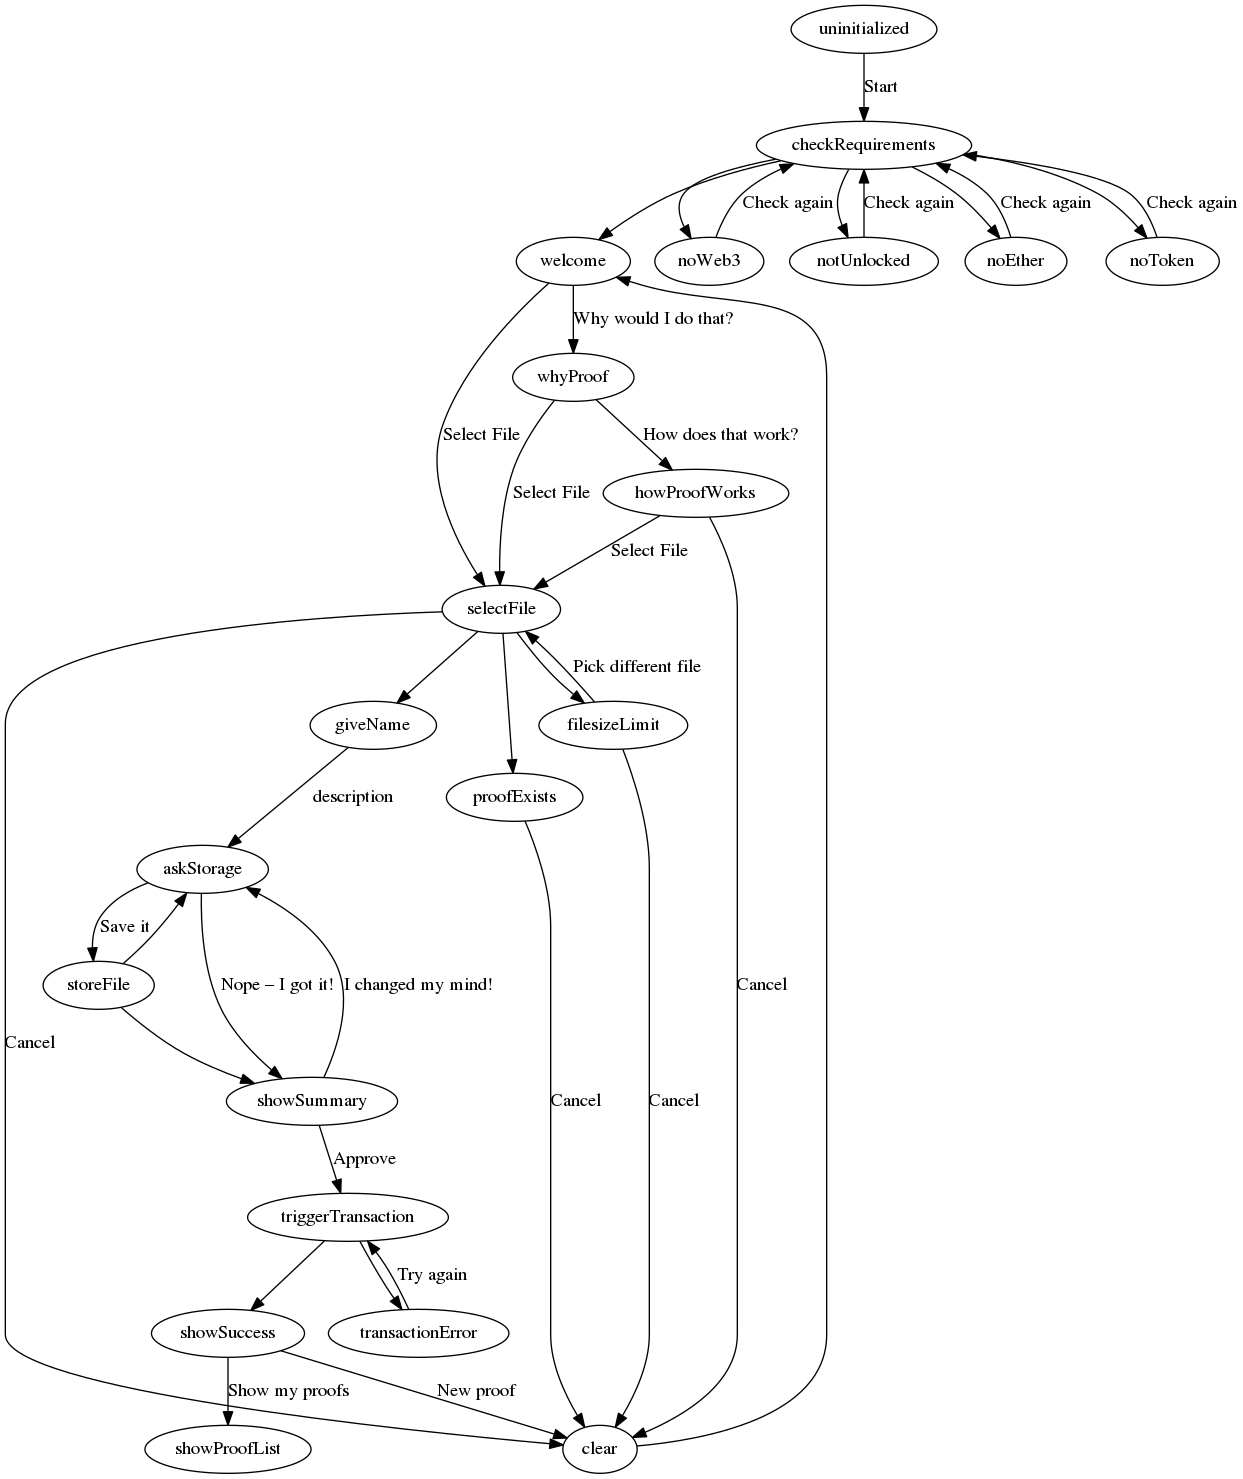
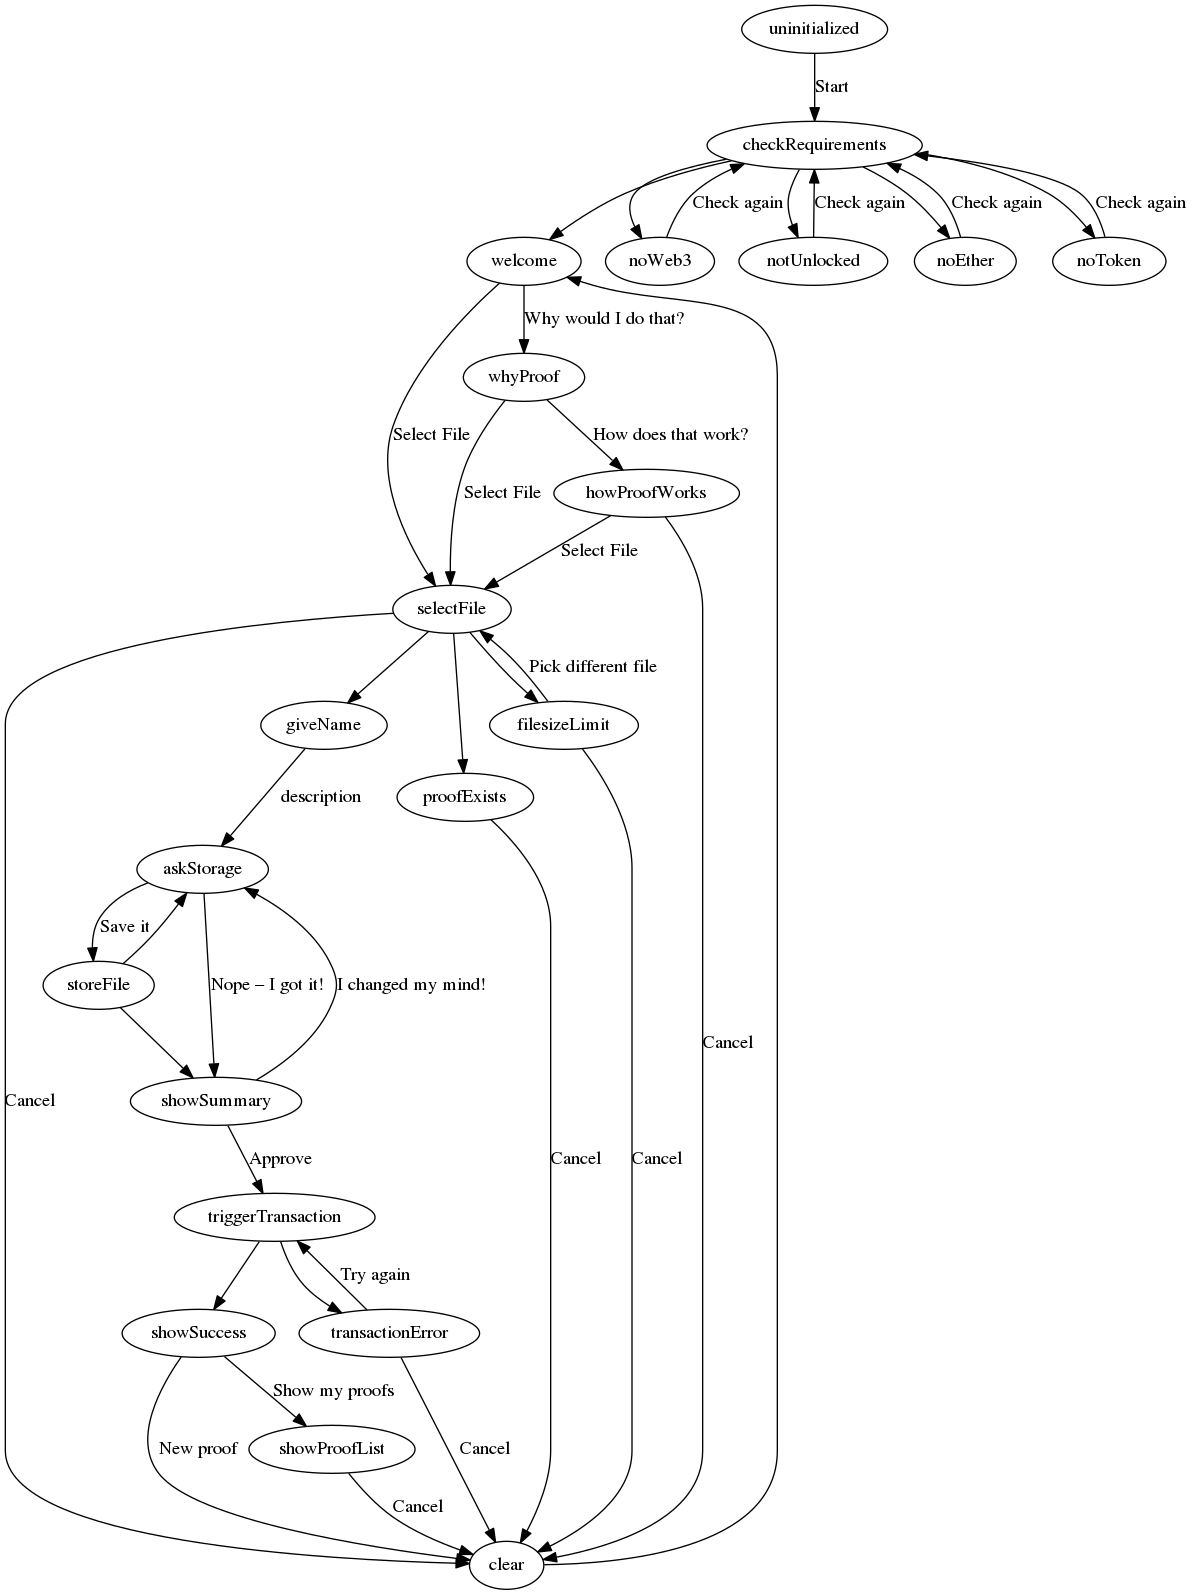
more flow improvements

diff --git a/src/components/Chat.js b/src/components/Chat.js
@@ -1,6 +1,7 @@
 import machine from './../machine.js'
 import Speech from './Speech.vue'
 import waterfall from 'async/waterfall'
+import parallel from 'async/parallel'
 
 import helperMixin from '../mixins/helper.js';
 
@@ -29,7 +30,8 @@ export default {
 					hash: null,
 					description: null,
 					ipfsHash: null,
-					txId: null
+					txId: null,
+					dataUrl: null
 				}
 			}
 		},
@@ -193,24 +195,50 @@ export default {
 			onFileChange: function(event) {
 				console.log('onFileChange', event.target.files, this.machine);
 				this.fileUploadFormData.set('file', event.target.files[0]);
-				//calculate hash
-				this.generateFileHash(this.fileUploadFormData.get('file'), (err, hash) => {
+
+				parallel({
+					dataUrl: (callback) => {
+						this.getImageDataUrl(this.fileUploadFormData.get('file'), (err, dataUrl) => {
+							console.log('getImageDataUrl', err);
+							if (err) {
+								return callback(err);
+							}
+							this.proof.dataUrl = dataUrl;
+							return callback(null, dataUrl);
+						});
+					},
+					hasProof: (callback) => {
+						this.generateFileHash(this.fileUploadFormData.get('file'), (err, hash) => {
+							if (err) {
+								return callback(err);
+							} else {
+								this.proof.hash = hash;
+								//check proof for existence
+								window.globalContract.hasProof(hash, (err, hasProof) => {
+									return callback(err, hasProof);
+								});
+							}
+						});
+					},
+				}, (err, result) => {
+					console.log(err, result);
 					if (err) {
 						//TODO: error handling
 					} else {
-						this.proof.hash = hash;
-						//check proof for existence
-						window.globalContract.hasProof(hash, (err, hasProof) => {
-							if (err) {
-								//TODO: error handling
-							} else {
-								if (hasProof) {
-									this.machine.transition('proofExists');
-								} else {
-									this.machine.transition('giveName');
+						if (result.dataUrl) {
+							this.addMessage({
+								sender: MessageSenderEnum.ME,
+								body: {
+									type: MessageBodyTypeEnum.IMAGE,
+									image: result.dataUrl
 								}
-							}
-						});
+							});
+						}
+						if (result.hasProof) {
+							this.machine.transition('proofExists');
+						} else {
+							this.machine.transition('giveName');
+						}
 					}
 				});
 			},
@@ -273,36 +301,14 @@ export default {
 					}
 				});
 			},
-			createProofNoUpload() {
-				let file = this.fileUploadFormData.get('file');
-				this.generateFileHash(file, (err, hash) => {
-					this.proof.hash = hash;
-					this.addMessageDelayed({
-						sender: MessageSenderEnum.APP,
-						body: {
-							type: MessageBodyTypeEnum.TEXT,
-							text: "I calculated to following hash for the file you chose. This will be notarized: " + hash
-						},
-					}, 1000, true);
-					this.machine.transition('name');
-				});
-			},
 			startUpload: function(event) {
 				if (event) {
 					event.preventDefault();
 				}
-
 				this.$http.post(this.$store.state.apiBaseUrl + '/upload', this.fileUploadFormData).then(response => {
 					console.log('yay', response);
 					let hash = this.proof.hash;
 					this.proof.ipfsHash = response.body.hash;
-					this.addMessage({
-						sender: MessageSenderEnum.ME,
-						body: {
-							type: MessageBodyTypeEnum.IMAGE,
-							image: this.$store.state.apiBaseUrl + '/uploads/' + hash
-						}
-					});
 					this.machine.setAnswer('showSummary');
 				}, response => {
 					console.log('nay', response);
@@ -310,7 +316,7 @@ export default {
 						sender: MessageSenderEnum.APP,
 						body: {
 							type: MessageBodyTypeEnum.TEXT,
-							text: 'Something went wrong D: '
+							text: 'Something went wrong'
 						},
 					});
 				});
@@ -330,7 +336,10 @@ export default {
 				this.showGasEstimate(this.proof.hash, this.proof.description, this.proof.ipfsHash);
 			},
 			showGasEstimate: function(textToProof, comment, ipfsHash) {
-				console.log("showGasEstimate", textToProof, comment);
+				console.log("showGasEstimate", textToProof, comment, ipfsHash);
+				if (!ipfsHash) {
+					ipfsHash = '';
+				}
 				let contract = window.globalContract;
 				if (contract) {
 					window.globalWeb3.eth.getAccounts((err, accounts) => {
@@ -404,12 +413,26 @@ export default {
 				this.proof.description = null;
 				this.proof.ipfsHash = null;
 				this.proof.txId = null;
+				this.proof.dataUrl = null;
 			},
 			openFilePicker: function() {
 				this.$refs.fileButton.click();
 			},
 			showProofList: function() {
 				this.$router.push({ path: '/proofs' });
+			},
+			getImageDataUrl: function(file, done) {
+				if (file) {
+					var reader = new FileReader();
+
+					reader.onload = function (e) {
+						return done(null, e.target.result);
+					}
+
+					reader.readAsDataURL(file);
+				} else {
+					return done(null, null);
+				}
 			}
 		},
 		mounted: function() {
@@ -458,10 +481,6 @@ export default {
 
 			this.machine.on("showSummary", () => {
 				this.showSummary();
-			});
-
-			this.machine.on("showGasEstimate", () => {
-				this.showGasEstimate(this.proof.hash, this.proof.description);
 			});
 
 			this.machine.on("clearProof", () => {

diff --git a/src/machine.js b/src/machine.js
@@ -188,71 +188,6 @@ module.exports = function () {
 					AnswerFactory.freetext('', 'welcome', /^.*$/i)
 				]
 			})
-
-			//
-			//
-			//
-			// pay: new Question('I will now calculate the estimated Gas usage.', {
-			// 	onEnter: function () {
-			// 		fsm.emit('showGasEstimate')
-			// 	},
-			// 	answers: [
-			// 		AnswerFactory.answer('Okay', 'explainPaymentRequest', /okay/i, function (answerText) {
-			// 			fsm.emit('startProof')
-			// 		}),
-			// 		AnswerFactory.answer('Why?', 'whyPay', /why/i),
-			// 		AnswerFactory.answer('Cancel', 'clear', /cancel/i)
-			// 	]
-			// }),
-			//
-			// whyPay: new Question('TODO: Transaction Fees explained', {
-			// 	onEnter: function () {
-			// 		fsm.transition('pay')
-			// 	},
-			// 	answers: [
-			// 		AnswerFactory.freetext('', 'pay', /^.*$/i)
-			// 	]
-			// }),
-			//
-			// explainPaymentRequest: new Question('A payment request has been issued. Check metamask!', {
-			// 	answers: [
-			// 		AnswerFactory.freetext('', 'summary', /^.*$/i),
-			// 		AnswerFactory.freetext('', 'transactionError', /^.*$/i),
-			// 		AnswerFactory.freetext('', 'clear', /^.*$/i)
-			// 	]
-			// }),
-			//
-			// transactionError: new Question('Transaction Error', {
-			// 	onEnter: function () {
-			// 		fsm.transition('pay')
-			// 	},
-			// 	answers: [
-			// 		AnswerFactory.freetext('', 'pay', /^.*$/i)
-			// 	]
-			// }),
-			//
-			// summary: new Question('Success! Your proof has been issued. It may take a while until its written to the blockchain.', {
-			// 	onEnter: function () {
-			// 		fsm.emit('showSummary')
-			// 	},
-			// 	answers: [
-			// 		AnswerFactory.answer('Cancel', 'clear', /cancel/i)
-			// 	]
-			// }),
-			//
-			//
-			//
-			// checkPicture: new Question('Choose an image to check for existing proofs.', {
-			// 	onEnter: function () {
-			// 		fsm.emit('showFileUpload', true)
-			// 	},
-			// 	onLeave: function () {
-			// 		fsm.emit('showFileUpload', false)
-			// 	},
-			// 	answers: [
-			// 		AnswerFactory.answer('Cancel', 'clear', /^cancel/i)
-			// 	]
-			// })
 		}
 	})
 
